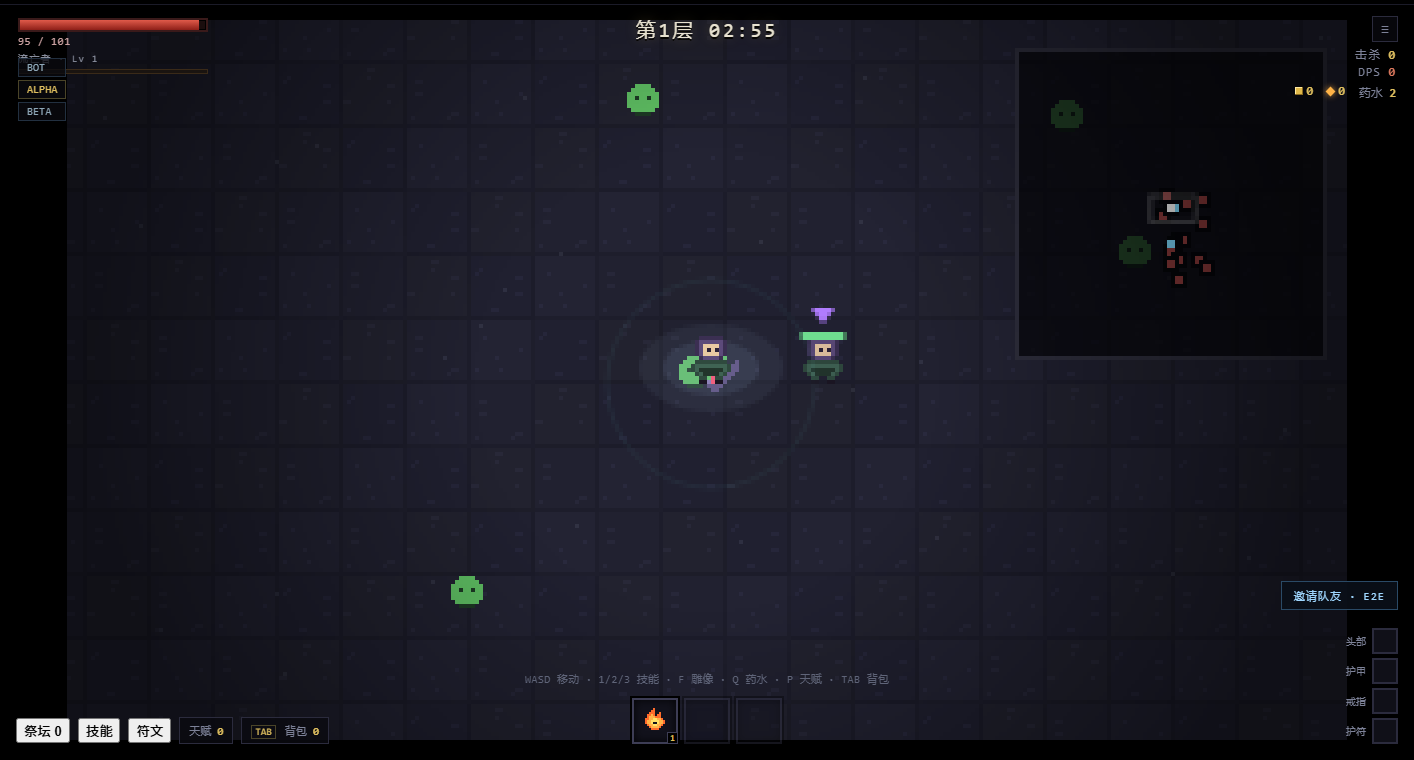
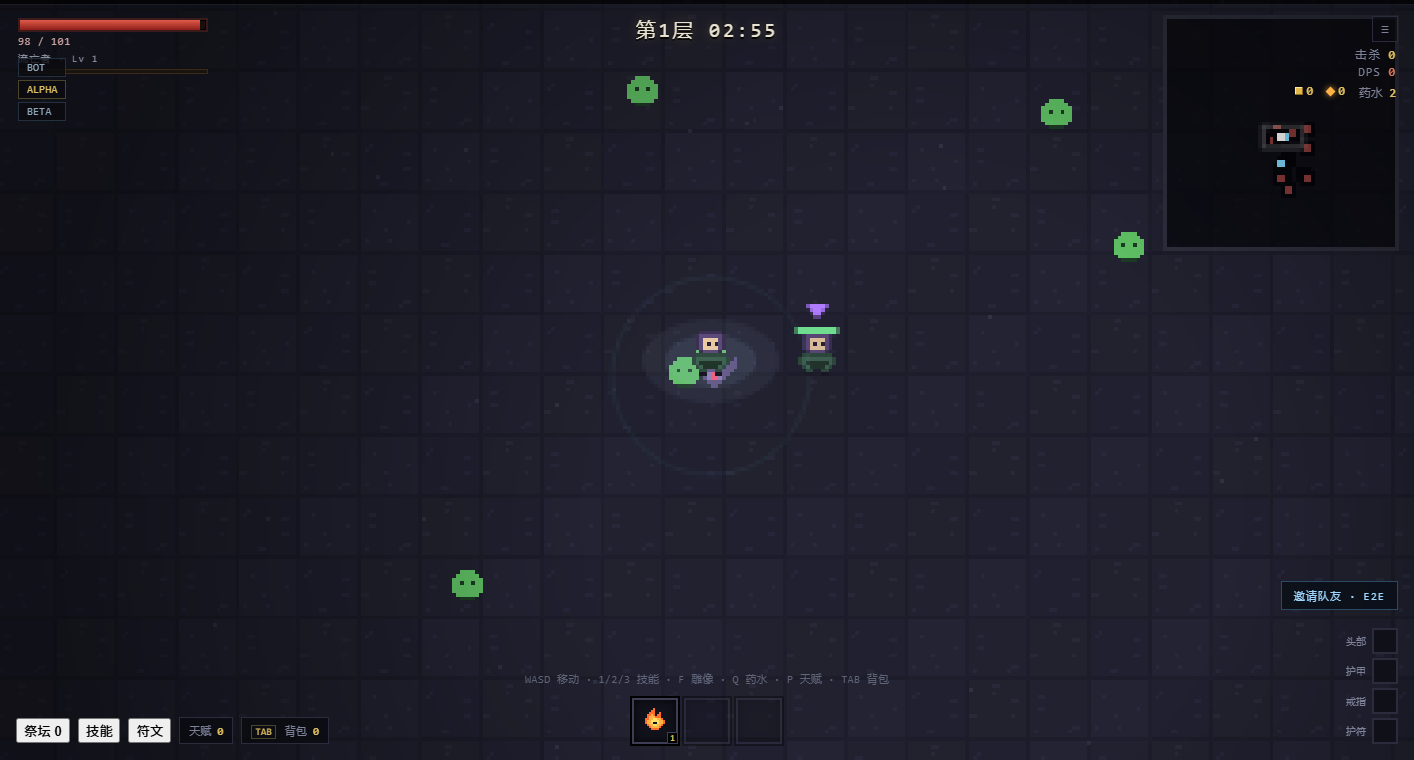
feat: 单人直接死亡 + 倒地可放弃 + 战斗画面铺满窗口 + 美术交接文档
单人: hp 归零直接结束，不进倒地
多人: 倒地时按空格放弃
画面: 高度固定 200、宽度按窗口比例，无黑边
文档: docs/ART.md 列出 29 个精灵规格与优先级

diff --git a/js/sim.js b/js/sim.js
@@ -510,7 +510,15 @@
     addFx(st, 'hit', p.x, p.y, 12, '#ff4d4d', 0.25);
     if (p.hp <= 0) {
       p.hp = 0;
-      if (!p.downed) downPlayer(st, p);
+      if (st.players.length <= 1) {
+        // 单人：直接死亡，不进入倒地状态
+        p.alive = false;
+        p.hp = 0;
+        ev(st, 'kill');
+        addFx(st, 'ring', p.x, p.y, 30, '#c0392b', 0.5);
+      } else if (!p.downed) {
+        downPlayer(st, p);
+      }
       if (!st.players.some(function (q) { return q.alive; })) st.phase = 'dead';
     }
   }
@@ -1283,6 +1291,18 @@
     }
   }
 
+  /** 倒地时放弃，直接死亡 */
+  function giveUp(st, p) {
+    if (!p) p = localPlayer(st);
+    if (!p.downed) return { ok: false, msg: '你没有倒地' };
+    p.downed = false;
+    p.reviveProg = 0;
+    p.alive = false;
+    ev(st, 'kill');
+    if (!st.players.some(function (q) { return q.alive; })) st.phase = 'dead';
+    return { ok: true };
+  }
+
   function activateStatue(st, p) {
     if (!p) p = localPlayer(st);
     const s = st.statue;
@@ -1679,7 +1699,7 @@
     addPlayer: addPlayer, removePlayer: removePlayer, applyPlayerDetails: applyPlayerDetails,
     classOf: classOf, setClass: setClass, enhance: enhance, salvage: salvage, dropItem: dropItem,
     setRune: setRune, runeModsOf: runeModsOf, pickRogue: pickRogue, rogueModsOf: rogueModsOf,
-    activateStatue: activateStatue, castSkill: castSkill, setSupport: setSupport, autoCast: autoCast,
+    activateStatue: activateStatue, giveUp: giveUp, castSkill: castSkill, setSupport: setSupport, autoCast: autoCast,
     addSkill: addSkill,
     allocate: allocate, resetTalents: resetTalents, drinkPotion: drinkPotion,
     equip: equip, unequip: unequip, sellItem: sellItem, buyItem: buyItem, buyPotion: buyPotion,

diff --git a/test/mp.js b/test/mp.js
@@ -199,5 +199,22 @@ stSt.rate.rank = 5;
 stSt.rate.idle = 0;
 for (let i = 0; i < 400; i++) SIM.step(stSt, STEP, {});
 T('5 秒不杀怪评级清零', stSt.rate.score === 0 && stSt.rate.rank === 0, 'score=' + stSt.rate.score);
+// 死亡规则：单人直接死、多人可放弃
+const stSolo = SIM.create(131, 1);
+SIM.chooseRift(stSolo, 0);
+const ps = stSolo.players[0];
+ps.invuln = 0;
+ps.hp = 1;
+stSolo.enemies.push({ id: 9001, typeId: 'skel', name: '测试怪', x: ps.x, y: ps.y, hp: 9999, maxHp: 9999, dmg: 999, r: 8, speed: 0, mass: 1, t: 0, flash: 0, chill: 0, burn: 0, burnDps: 0, shock: 0, elite: false, boss: false, dead: false, xp: 0, gold: 0, split: 0, charger: false, caster: false, flee: false, ranged: false, summoner: false, healer: false, wobble: 0, hitCd: 0 });
+let downed = false;
+for (let i = 0; i < 240 && ps.alive; i++) { SIM.step(stSolo, STEP, {}); if (ps.downed) downed = true; }
+T('单人模式直接死亡不倒地', ps.alive === false && downed === false, 'alive=' + ps.alive + ' downed=' + downed);
+
+const stGu = SIM.create(132, 2);
+SIM.chooseRift(stGu, 0);
+const pgu = stGu.players[0];
+pgu.downed = true; pgu.downT = 20;
+const rgu = SIM.giveUp(stGu, pgu);
+T('倒地后可直接放弃死亡', !!(rgu && rgu.ok && pgu.alive === false && pgu.downed === false), 'alive=' + pgu.alive);
 console.log('\n' + pass + '/' + (pass + fail) + ' passed');
 process.exit(fail === 0 ? 0 : 1);

diff --git a/js/render.js b/js/render.js
@@ -5,7 +5,7 @@
 (function (root) {
   'use strict';
 
-  const W = 320, H = 180;
+  let W = 480, H = 270;
   const D = root.DATA, CFG = D.CONFIG;
 
   let canvas, ctx, scale = 1;
@@ -123,9 +123,21 @@
 
   function resize() {
     const vw = window.innerWidth, vh = window.innerHeight;
-    scale = Math.max(1, Math.floor(Math.min(vw / W, vh / H)));
-    canvas.style.width = (W * scale) + 'px';
-    canvas.style.height = (H * scale) + 'px';
+    if (vw < 8 || vh < 8) return;
+    const nh = 200;
+    const nw = Math.max(320, Math.round(nh * (vw / vh)));
+    if (nw !== W || nh !== H) {
+      W = nw;
+      H = nh;
+      canvas.width = W;
+      canvas.height = H;
+      ctx = canvas.getContext('2d');
+      ctx.imageSmoothingEnabled = false;
+      buildSprites();
+    }
+    scale = vh / H;
+    canvas.style.width = vw + 'px';
+    canvas.style.height = vh + 'px';
   }
 
   /* ---------------- 工具 ---------------- */
@@ -678,7 +690,7 @@
 
   function drawMinimap(st, time) {
     if (!minimapOn) return;
-    const M = 78, pad = 6;
+    const M = 62, pad = 5;
     const x0 = W - M - pad, y0 = pad;
     const isTown = st.phase === 'town';
     const worldW = isTown ? D.TOWN.w : CFG.worldSize;

diff --git a/js/act.js b/js/act.js
@@ -41,6 +41,7 @@
       case 'support': return SIM.setSupport(st, a[0], a[1], p);
       case 'rogue': return SIM.pickRogue(st, a[0], p);
       case 'statue': return SIM.activateStatue(st, p);
+      case 'giveup': return SIM.giveUp(st, p);
       case 'potion': return SIM.drinkPotion(st, p);
       case 'leave': return SIM.interact(st);
       case 'take': return SIM.takeItem(st, p);

diff --git a/js/main.js b/js/main.js
@@ -185,6 +185,10 @@
       const k = ev.key.toLowerCase();
       keys[k] = true;
       if (UI.isOpen()) return;
+      if (k === ' ') {
+        if (st.player && st.player.downed) { ACT.run(st, 'giveup', []); }
+        return;
+      }
       if (k === 'f') {
         const rs = ACT.run(st, 'statue', []);
         if (rs && !rs.ok && rs.msg) UI.toast(rs.msg, 'bad');

diff --git a/docs/ART.md b/docs/ART.md
@@ -1,0 +1,115 @@
+# 美术需求清单
+
+> 给美术同学/外包的交接文档。游戏当前是 **320×180 像素风**（实际渲染内部高度 200，宽度按窗口比例），所有画面元素都是代码里用字符点阵手绘的。如果你的美术资源到位，我会把它们接进 `js/sprites.js` 的精灵管线，替换掉现在的占位图。
+
+---
+
+## 一、技术规格（必须先对齐，否则接不进去）
+
+| 项目 | 要求 |
+|---|---|
+| 格式 | **PNG，带透明通道**，不要 JPG |
+| 缩放 | **1x 原始像素**，不要放大、不要抗锯齿（放大我可以无损做） |
+| 色彩 | 每个精灵建议 ≤ 8 色；全项目建议统一 **32 色调色板** |
+| 描边 | 统一用深色描边（`#0a0a12` 附近），不要用纯黑 |
+| 光影 | 左上光、右下暗，保持一致 |
+| 背景 | 透明，**不要画地板/阴影**（阴影由代码画） |
+| 对齐 | 角色脚底对齐图片底边；武器/特效以中心对齐 |
+
+**交付方式（两种都行）**：
+
+1. **单文件**：`hero_idle.png`、`hero_walk1.png`… 放进 `assets/`，我按文件名接。
+2. **图集**：一张 `sprites.png` + 一份 JSON（每帧 `{name, x, y, w, h}`）。这种方式更好维护。
+
+---
+
+## 二、现有精灵清单（共 29 个，按 1:1 替换）
+
+### 角色（5 个）
+| 键名 | 当前尺寸 | 说明 | 需要的帧 |
+|---|---|---|---|
+| `hero` | 12×18 | 玩家站立/默认 | 1（+ 可选待机 2 帧） |
+| `hero2` | 12×18 | 玩家行走 | 2 帧循环（左右脚） |
+| `npc_merchant` | 12×16 | 商人 | 1 |
+| `npc_smith` | 12×16 | 铁匠 | 1 |
+| `npc_market` | 12×16 | 交易行 | 1 |
+
+### 敌人（8 个）
+| 键名 | 当前尺寸 | 建议尺寸 | 特征要求 |
+|---|---|---|---|
+| `slime` | 10×10 | 12×12 | 史莱姆，软体 |
+| `bat` | 12×10 | 14×12 | 蝙蝠，翅膀张开 |
+| `skel` | 10×18 | 12×20 | 骷髅兵 |
+| `wraith` | 12×16 | 14×18 | 幽魂/幽灵 |
+| `brute` | 14×18 | 16×20 | 蛮兽，壮 |
+| `spitter` | 10×10 | 12×12 | 腐化喷吐者，远程 |
+| `boss` | 24×24 | 32×32 | 深渊之眼 |
+| `boss2` | 20×20 | 32×32 | 骸骨之王 |
+
+### 物品与图标（16 个）
+| 键名 | 尺寸 | 用途 |
+|---|---|---|
+| `coin` | 8×8 | 金币 |
+| `gem` | 8×8 | 宝石/材料 |
+| `chest` | 12×10 | 地面掉落物箱 |
+| `heart` | 8×8 | 治疗 |
+| `icon_helm` `icon_body` `icon_ring` `icon_amulet` `icon_boot` | 16×16 | 装备部位图标 |
+| `icon_dagger` `icon_fire` `icon_frost` `icon_bolt` `icon_axe` `icon_meteor` | 16×16 | 技能图标 |
+| `portal` | 20×24 | 裂隙之门 |
+
+---
+
+## 三、我还需要的“新”资源（目前是代码占位）
+
+| 资源 | 尺寸 | 说明 |
+|---|---|---|
+| **打宝雕像** | 24×32 | 现在是我用矩形拼的柱子，需要一个真正的雕像（石柱 + 顶部宝石） |
+| **雕像启动态** | 24×32 | 宝石发光/符文亮起 |
+| **Boss 二阶段特效** | 64×64 | 暴怒时的光环/裂纹（可选） |
+| **地面纹理** | 16×16 可平铺 | 现在只有网格线，需要真正的石板/泥土 |
+| **主城地面** | 16×16 可平铺 | 石板路 |
+| **UI 边框** | 9-slice | 面板边框（现在纯 CSS 描边） |
+
+---
+
+## 四、动画规格（如果做）
+
+| 对象 | 帧数 | 帧率 |
+|---|---|---|
+| 玩家行走 | 4 | 8 fps |
+| 玩家攻击 | 3 | 12 fps |
+| 敌人受击 | 2（白/红闪） | 代码已实现，不需要美术 |
+| 敌人死亡 | 3–4 | 12 fps |
+| 首领待机 | 4 | 6 fps |
+
+> 死亡与受击的闪烁目前是代码用白色叠加实现的，**这部分不需要你提供**。
+
+---
+
+## 五、优先级（如果时间有限，按这个顺序做）
+
+1. **玩家 hero / hero2**（占屏时间最长）
+2. **敌人 slime / skel / bat**（出现频率最高）
+3. **地面纹理**（一换整个画面观感就变）
+4. **首领 boss / boss2**
+5. **装备与技能图标**
+6. 其余
+
+---
+
+## 六、验收标准
+
+- 在 1x 下像素清晰，边缘不发虚
+- 轮廓在深色地板上能一眼分辨（当前地板是 `#12121c` 附近）
+- 同一屏里 100+ 个敌人时，主角仍然最显眼（建议主角用更亮的主色）
+- 每个资源不超过 **4KB**（整包控制在 500KB 内，保证纯网页秒开）
+
+---
+
+## 七、我需要你确认的三件事
+
+1. **你想做到什么程度**：只是替换现有 29 个精灵，还是连 UI/场景一起重做？
+2. **风格参考**：给我 1–2 张你喜欢的游戏截图（比如《火炬之光》《循环英雄》《土豆兄弟》），我按那个调色板统一其余部分。
+3. **交付节奏**：一次性给全套，还是先给“玩家 + 三个基础怪 + 地面”这一批？我建议先做这一批，我接进去你看效果，再决定后面的方向。
+
+**没有美术也能玩**——现在这套占位图是能跑完整流程的。美术是锦上添花，不是阻塞项。

diff --git a/CHANGELOG.md b/CHANGELOG.md
@@ -2,6 +2,13 @@
 
 本项目从零开始，逐轮迭代。下面按实际完成的顺序记录，方便回溯每个版本改变了什么。
 
+## 1.20.0 — 死亡规则与全屏战斗
+
+- **单人模式直接死亡**：不再进入倒地状态，血量归零即结束
+- **多人倒地可按空格放弃**：不必等队友，倒地提示里写明了这条
+- **战斗画面铺满窗口**：内部渲染从固定 320×180 改为「高度固定 200、宽度按窗口比例」，不再有黑边；窗口缩放时自动重建画布
+- 新增 `docs/ART.md`：面向美术的完整交接文档（规格、29 个精灵清单、优先级、验收标准）
+
 ## 1.19.0 — 小地图重做
 
 - 小地图从 58px 放大到 **78px**
